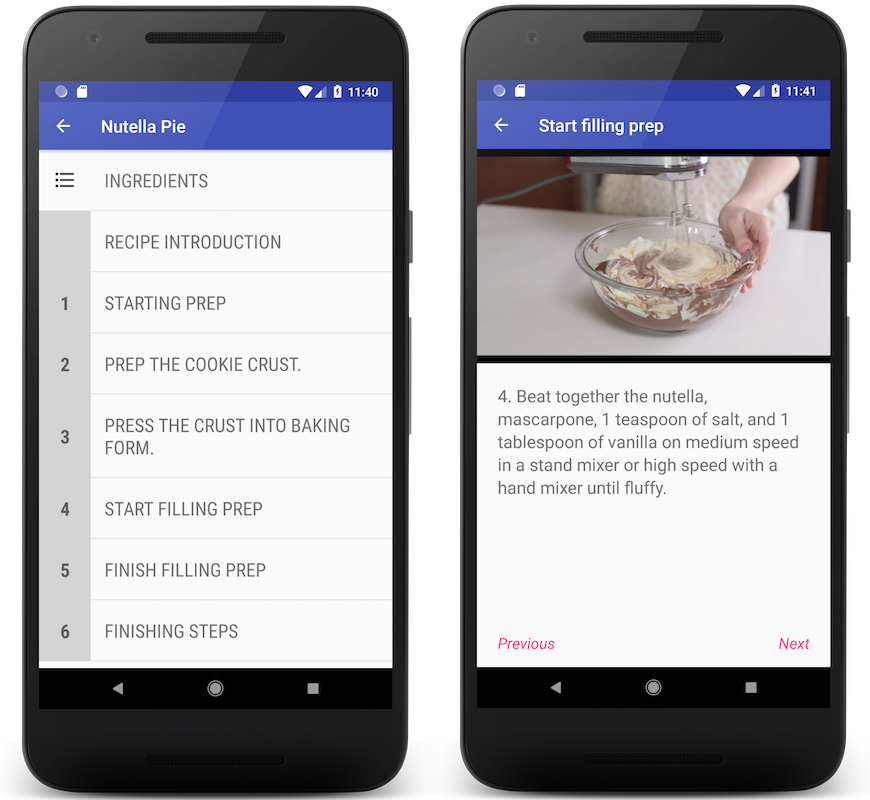
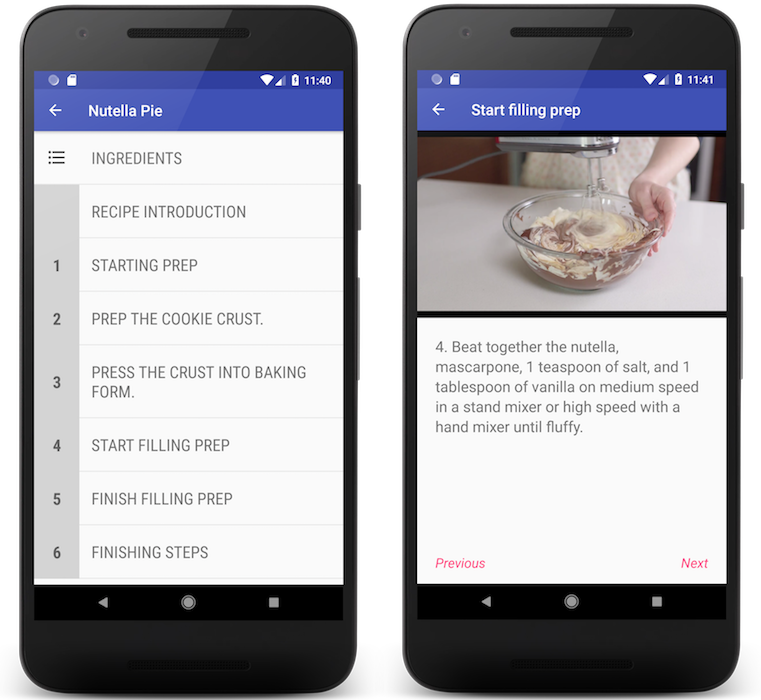
Updates screenshts and README file.

diff --git a/README.md b/README.md
@@ -4,7 +4,11 @@ This project is based on **Baking App** project from the 2017 [Udacity's
 Associate Android Developer Fast Track Nanodegree Program](https://ae.udacity.com/course/associate-android-developer-fast-track--nd818).
 
 <p align="center"><br>
-<img src="https://raw.githubusercontent.com/aimatus/udacity-nanodegree-baking-app/master/screenshots/device-2018-05-28-202131.png">
+<img src="https://raw.githubusercontent.com/aimatus/udacity-nanodegree-baking-app/master/screenshots/phone-recipe-screenshot.png"><br>
+</p>
+
+<p align="center"><br>
+<img src="https://raw.githubusercontent.com/aimatus/udacity-nanodegree-baking-app/master/screenshots/tablet-recipe-screenshot.png">
 </p>
 
 ## **LIBRARIES**
